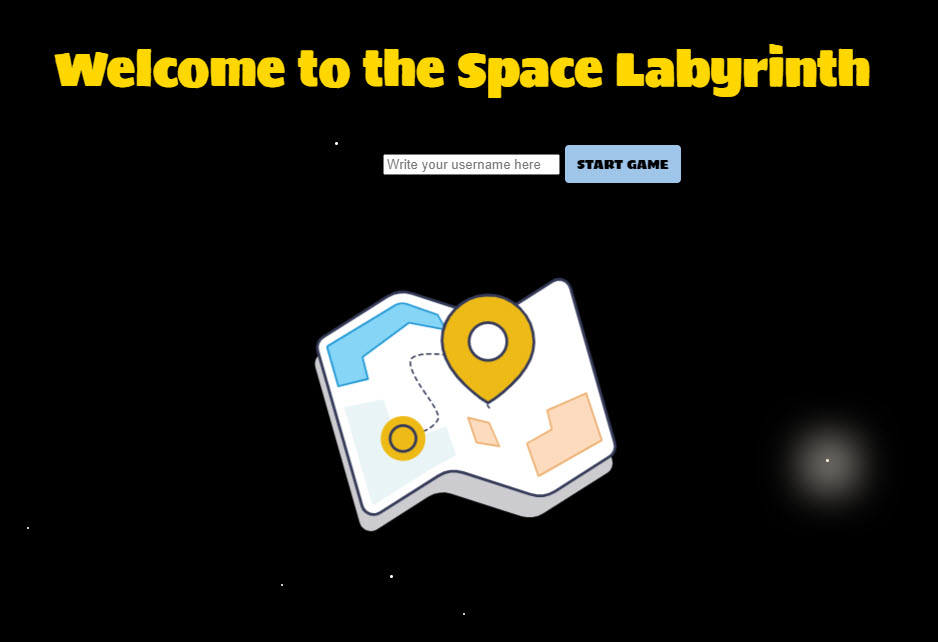
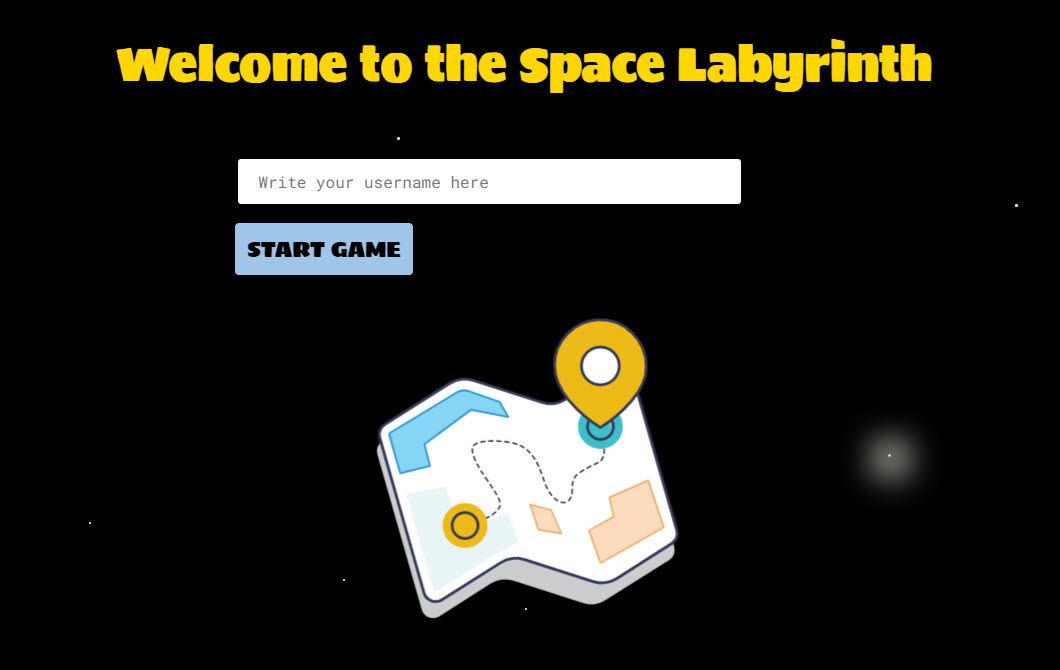
added new styling for button and animation for h1

diff --git a/code/src/index.css b/code/src/index.css
@@ -22,27 +22,42 @@ code {
   margin-right: auto;
 }
 
+.storyContainer {
+  width: 50vw;
+  text-align: center;
+}
+
 .actionsContainer {
   display: flex;
   flex-direction: column;
   align-items: center;
   justify-content: center;
   max-width: 40%;
-  text-align: center;
-  margin-top: 1.5rem;
+  height: 12rem;
+  text-align: left;
+  padding-bottom: 0.5rem;
+  margin-top: 1rem;
+  border-top: 2px dotted #fff7cc;
+  border-bottom: 2px dotted #fff7cc;
+}
+
+.actionsContainer:last-of-type {
+  text-align: right;
+  align-items: flex-end;
+  border-top: 0;
 }
 
 h1 {
  font-family: Sigmar;
  color: gold;
- font-size: 3rem;
+ font-size: 4rem;
  font-weight: 300;
 }
 
 h2 {
-  color: white;
+  color: rgb(226, 223, 183);
   font-family: Roboto Mono;
-  font-size: 1.3rem;
+  font-size: 1.3rem !important;
 }
 
 p {
@@ -59,6 +74,62 @@ input {
   border-radius: 6px;
 }
 
+input:focus::placeholder {
+  color: transparent;
+}
+
+input:focus {
+  color: white;
+ background-color: transparent;
+}
+
 input[type=text] {
   font-family: Roboto Mono;
+}
+
+@media screen and (max-width: 1200px) {
+  .storyContainer {
+  width: 70vw;
+  }
+}
+
+/* Animation for h1*/
+.text-animation {
+  display: flex;
+  justify-content: center;
+  position: relative;
+  height: 200px;
+  font-size: 500%;
+  font-weight: 600;
+  letter-spacing: 6px;
+  line-height: 150%;
+  perspective: 400px;
+  text-align: justify;
+}
+
+.crawl {
+  position: relative;
+  top: 9999px;
+  transform-origin: 50% 100%;
+  animation: crawl 40s linear infinite;
+}
+
+.crawl > .title {
+  font-size: 100%;
+  text-align: center;
+}
+
+.crawl > .title h1 {
+  margin: 0 0 100px;
+}
+
+@keyframes crawl {
+  0% {
+    top: 0;
+    transform: rotateX(20deg)  translateZ(0);
+  }
+  100% { 
+    top: -1000px;
+    transform: rotateX(25deg) translateZ(-2000px);
+  }
 }

diff --git a/code/src/library/buttons.js b/code/src/library/buttons.js
@@ -1,21 +1,27 @@
-import styled from 'styled-components';
+import styled, { css } from 'styled-components';
+
+const commonButtonStyles = css`
+  &:hover {
+    background-color: rgb(115, 215, 115);
+    color: white;
+    text-shadow: 1px 1px black;
+  }
+`;
 
 // Submit button
 export const SubmitBtn = styled.button`
-    margin-top: 1rem;
-    padding: 8px 12px;
-    font-family: Sigmar;
-    font-size: 1.4rem;
-    border-radius: 4px;
-    border:none;
-    background-color: #9fc5e8;
-    cursor: pointer;
+  margin-top: 1rem;
+  padding: 8px 12px;
+  font-family: Sigmar;
+  font-size: 1.4rem;
+  border-radius: 4px;
+  border: none;
+  background-color: #9fc5e8;
+  cursor: pointer;
 
-    &:hover {
-        background-color: #198c19;
-        color: white;
-    }
-`
+  ${commonButtonStyles}
+`;
+
 // Restart button
 export const RestartBtn = styled.button`
     margin: 4px;
@@ -28,16 +34,14 @@ export const RestartBtn = styled.button`
     cursor: pointer;
     margin-top: 2rem;
 
-    &:hover {
-        background-color: #198c19;
-        color: white;
-    }
+    ${commonButtonStyles}
 `
 
 // Option buttons
 export const OptionBtn = styled.button`
+    height: 3rem;
     margin: 4px;
-    padding: 10px 14px;
+    padding: 0 14px 0 14px;
     font-family: Sigmar;
     font-size: 1.4rem;
     border-radius: 4px;
@@ -45,8 +49,5 @@ export const OptionBtn = styled.button`
     background-color: #9fc5e8;
     cursor: pointer;
 
-    &:hover {
-        background-color: #198c19;
-        color: white;
-    }
+    ${commonButtonStyles}
 `

diff --git a/code/src/reducers/labyrinth.js b/code/src/reducers/labyrinth.js
@@ -9,14 +9,12 @@ const labyrinth = createSlice ({
     coordinates:'', 
     description: '',
     actions: []
-    // gameStep: where in the game the user is. {
-    // coordinates:"0,0"}    
   },
 
-    // history: ["0,0", "0,2", ]
-
-    // an action to save the category (choice) to global state. Dynamically chosen by user.   
     reducers: {
+      setupStore: (store, action) => {
+        store.items = action.payload;
+      },
       setUserName: (state, action) => {
         state.username = action.payload
       },
@@ -34,7 +32,7 @@ const labyrinth = createSlice ({
 
 export default labyrinth;
 
-// a thunk to handle api call. Can be reused. startGame . Response back (coordinates, description) Actions are in an array. 
+// a thunk to handle api call. 
 export const getLabyrinth = () => {
   return (dispatch, getState) => {
 dispatch(loading.actions.setLoading(true))
@@ -58,6 +56,10 @@ const options = {
           dispatch(loading.actions.setLoading(false));
         }, 2000);
       })
+      .catch((error) => {
+        console.error('Error fetching labyrinth:', error);
+        dispatch(loading.actions.setLoading(false));
+      });
   }
 }
 
@@ -85,7 +87,9 @@ export const generateOptions = (type, direction) => {
           dispatch(loading.actions.setLoading(false));
         }, 2000);
       })
+      .catch((error) => {
+        console.error('Error fetching labyrinth:', error);
+        dispatch(loading.actions.setLoading(false));
+      });
   }
 }
-
-//${getState().jokes.category}

diff --git a/code/src/Components/GameScreen.js b/code/src/Components/GameScreen.js
@@ -7,10 +7,7 @@ const GameScreen = () => {
   const actions = useSelector((store) => store.labyrinth.actions)
   const gameDescription = useSelector((store) => store.labyrinth.description)
   const coordinates = useSelector((store) => store.labyrinth.coordinates)
-  console.log(gameDescription)
   const dispatch = useDispatch()
-  // gameActions within an object. map through the actions.
-  console.log('actions:', actions)
 
   const handleRestart = () => {
     window.location.reload();
@@ -18,7 +15,9 @@ const GameScreen = () => {
 
   return (
     <>
-      <h2><strong>{gameDescription}</strong></h2>
+      <div className="storyContainer">
+        <h2>{gameDescription}</h2>
+      </div>
       {actions.map((action) => {
         return (
           <div className="actionsContainer" key={action.description}>
@@ -37,5 +36,3 @@ const GameScreen = () => {
 }
 
 export default GameScreen;
-
-// end coordinates:'1,3' actions array is empty = the end.

diff --git a/code/src/App.js b/code/src/App.js
@@ -3,7 +3,7 @@ import React from 'react';
 import { combineReducers, configureStore } from '@reduxjs/toolkit';
 import labyrinth from 'reducers/labyrinth';
 import loading from 'reducers/loading';
-import SpaceBackground from 'components/SpaceBackground';
+import Space from 'components/Space';
 import StartScreen from 'components/StartScreen';
 import { Provider } from 'react-redux';
 
@@ -17,7 +17,7 @@ const store = configureStore({ reducer });
 
   return (
     <Provider store={store}>
-      <SpaceBackground />
+      <Space />
       <StartScreen />
     </Provider>
   )

diff --git a/code/src/Components/GameScreenLotties.js b/code/src/Components/GameScreenLotties.js
@@ -3,9 +3,9 @@ import React from 'react';
 import { useSelector } from 'react-redux';
 import { Player } from '@lottiefiles/react-lottie-player';
 
+// unique lottie displayed for each coordinate. Else will show a 404 error lottie.
 const GameScreenLotties = () => {
   const coordinates = useSelector((store) => store.labyrinth.coordinates)
-  console.log('coordinates:', coordinates)
 
   let lottieURL;
 
@@ -37,5 +37,3 @@ const GameScreenLotties = () => {
 }
 
 export default GameScreenLotties;
-
-// <img src={lottieURL} alt="background" />

diff --git a/code/src/Components/StartScreen.js b/code/src/Components/StartScreen.js
@@ -29,7 +29,13 @@ const StartScreen = () => {
         </>
       ) : (
         <div>
-          <h1>Welcome to the Space Labyrinth </h1>
+          <section className="text-animation">
+            <div className="crawl">
+              <div className="title">
+                <h1>Welcome to the Space Labyrinth</h1>
+              </div>
+            </div>
+          </section>
           <UserNameInput onStartGame={handleStartGame} />
           <Player
             autoplay

diff --git a/code/src/Components/Space.js b/code/src/Components/Space.js
@@ -1,7 +1,7 @@
 import React from 'react';
 import '../background.css';
 
-const SpaceBackground = () => {
+const Space = () => {
   return (
     <>
       <div className="star1" />
@@ -23,4 +23,4 @@ const SpaceBackground = () => {
   )
 }
 
-export default SpaceBackground;
+export default Space;

diff --git a/code/src/background.css b/code/src/background.css
@@ -1,3 +1,4 @@
+/*Animation for background sky with stars*/
 .star1 {
     position: absolute;
     top: 48%;
